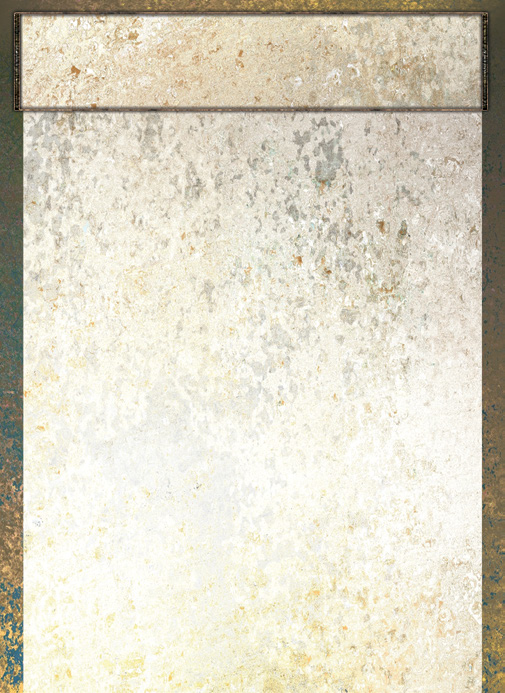
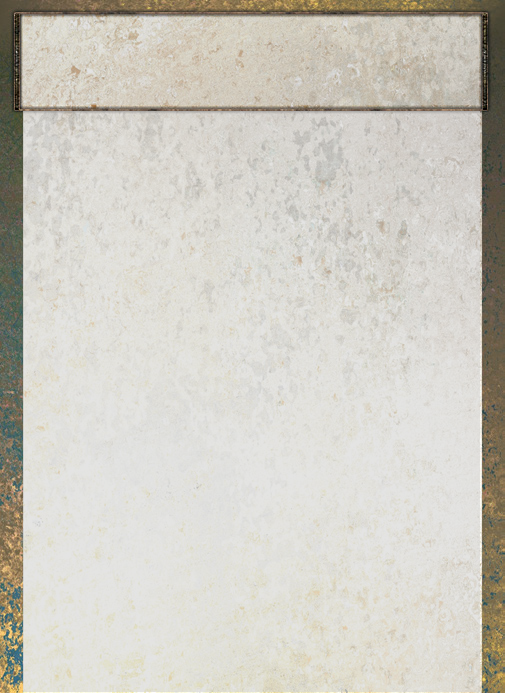
updated appearance of journal entry windows

diff --git a/css/torgeternity.css b/css/torgeternity.css
@@ -209,10 +209,29 @@ div.actor ::-webkit-scrollbar {
 }
 
 .journal-sheet .window-content .editor {
-  margin-top: 4%;
+  margin-top: 2%;
   margin-left: 5%;
   width: 90%;
   padding: 2%;
+}
+
+.journal-sheet .window-content .editor .editor-content h1 {
+  font-family: Alaska;
+  text-transform: uppercase;
+  text-align: center;
+  color: white;
+  background-color: #0a0b3b;
+  border-bottom: none;
+}
+
+.journal-sheet .window-content .editor .editor-content h2 {
+  font-family: Alaska;
+  border-bottom: none;
+}
+
+.journal-sheet .window-content .editor .editor-content h3 {
+  font-family: Alaska;
+  font-weight: bold;
 }
 
 .window-app.image-popout .form-group.title {

diff --git a/css/app/window_apps.css b/css/app/window_apps.css
@@ -87,10 +87,29 @@
 }
 
 .journal-sheet .window-content .editor {
-  margin-top: 4%;
+  margin-top: 2%;
   margin-left: 5%;
   width: 90%;
   padding: 2%;
+}
+
+.journal-sheet .window-content .editor .editor-content h1 {
+  font-family: Alaska;
+  text-transform: uppercase;
+  text-align: center;
+  color: white;
+  background-color: #0a0b3b;
+  border-bottom: none;
+}
+
+.journal-sheet .window-content .editor .editor-content h2 {
+  font-family: Alaska;
+  border-bottom: none;
+}
+
+.journal-sheet .window-content .editor .editor-content h3 {
+  font-family: Alaska;
+  font-weight: bold;
 }
 
 .window-app.image-popout .form-group.title {

diff --git a/scss/app/window_apps.scss b/scss/app/window_apps.scss
@@ -93,10 +93,31 @@
     }
 
     .editor {
-        margin-top: 4%;
+        margin-top: 2%;
         margin-left: 5%;
         width: 90%;
         padding: 2%
+    }
+
+    .editor .editor-content {
+        h1 {
+            font-family:Alaska;
+            text-transform:uppercase;
+            text-align:center;
+            color:white;
+            background-color:#0a0b3b;
+            border-bottom:none;
+        }
+
+        h2 {
+            font-family:Alaska;
+            border-bottom:none;
+        }
+
+        h3 {
+            font-family:Alaska;
+            font-weight:bold;
+        }
     }
 }
 

diff --git a/Readme.md b/Readme.md
@@ -17,6 +17,8 @@ everyone, but you are going to lose the data in your ammo field in existing weap
 need to re-input the max ammo for any existing items. We will try to avoid doing this
 much, if any, in the future.
 
+Updated appearance of journal entry windows.
+
 Known issue: some sheets that were created with a VERY early version of the system may
 display the attributes window improperly on the Storm Knight sheet. We haven't tried
 to fix this because we assume there aren't many sheets like that floating around out
